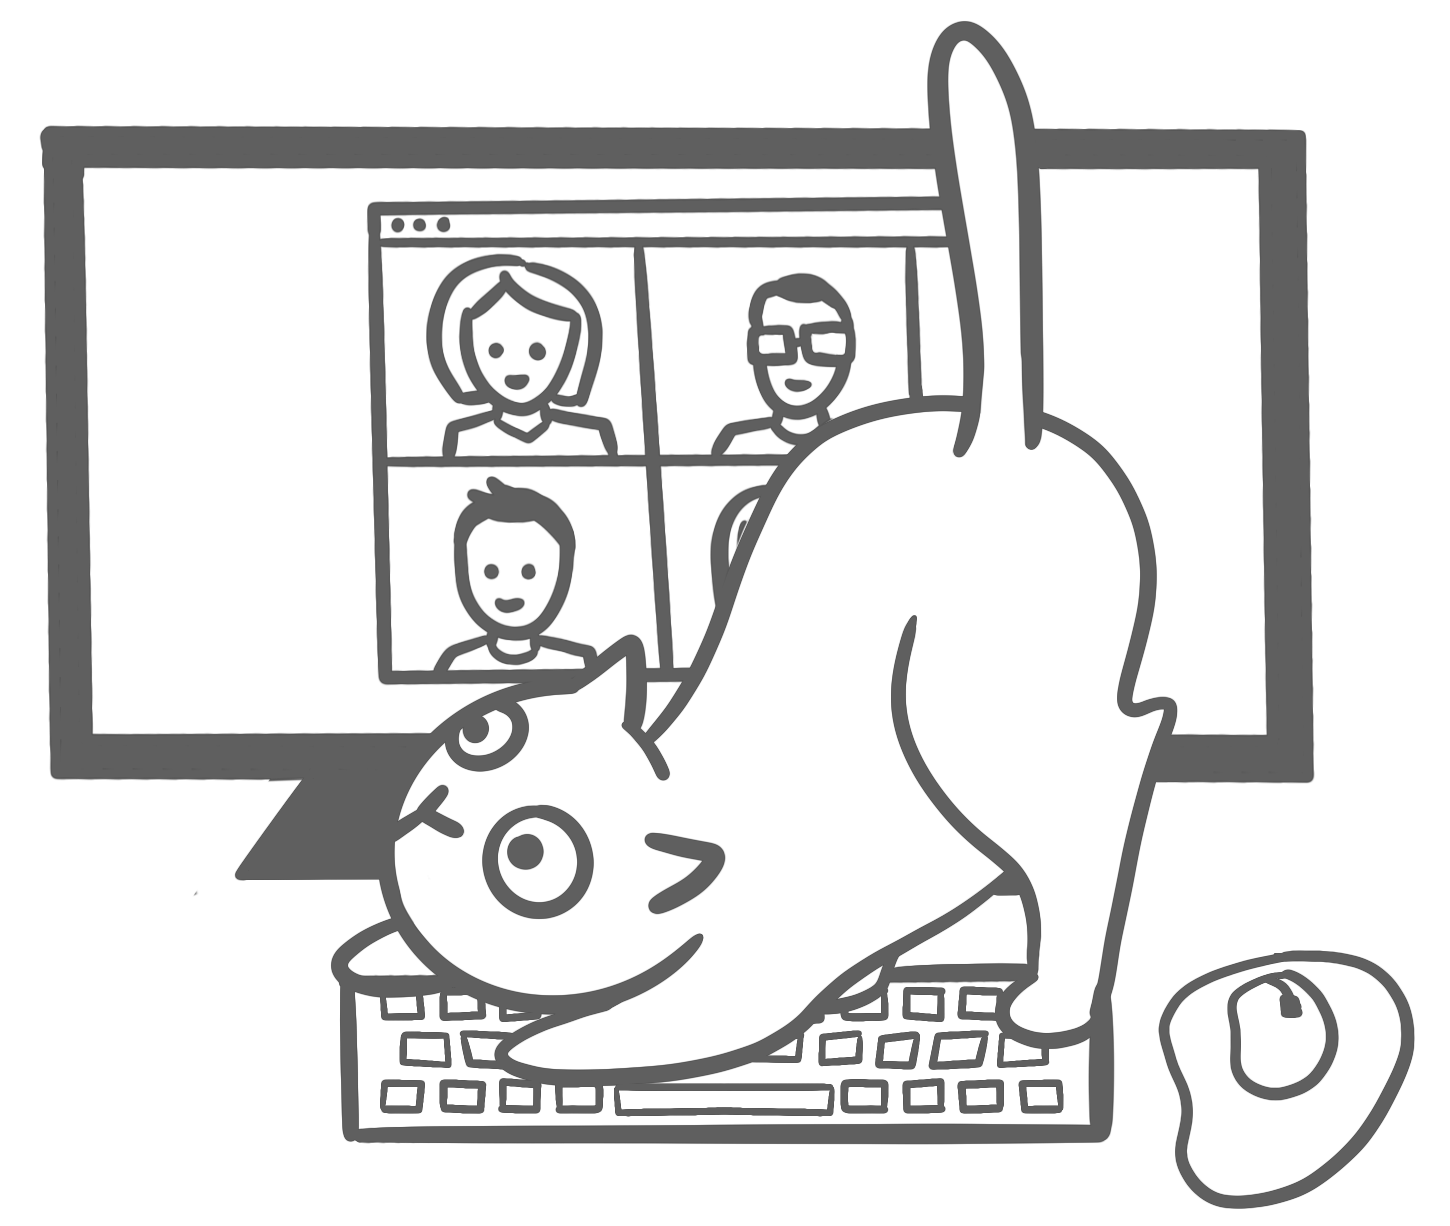
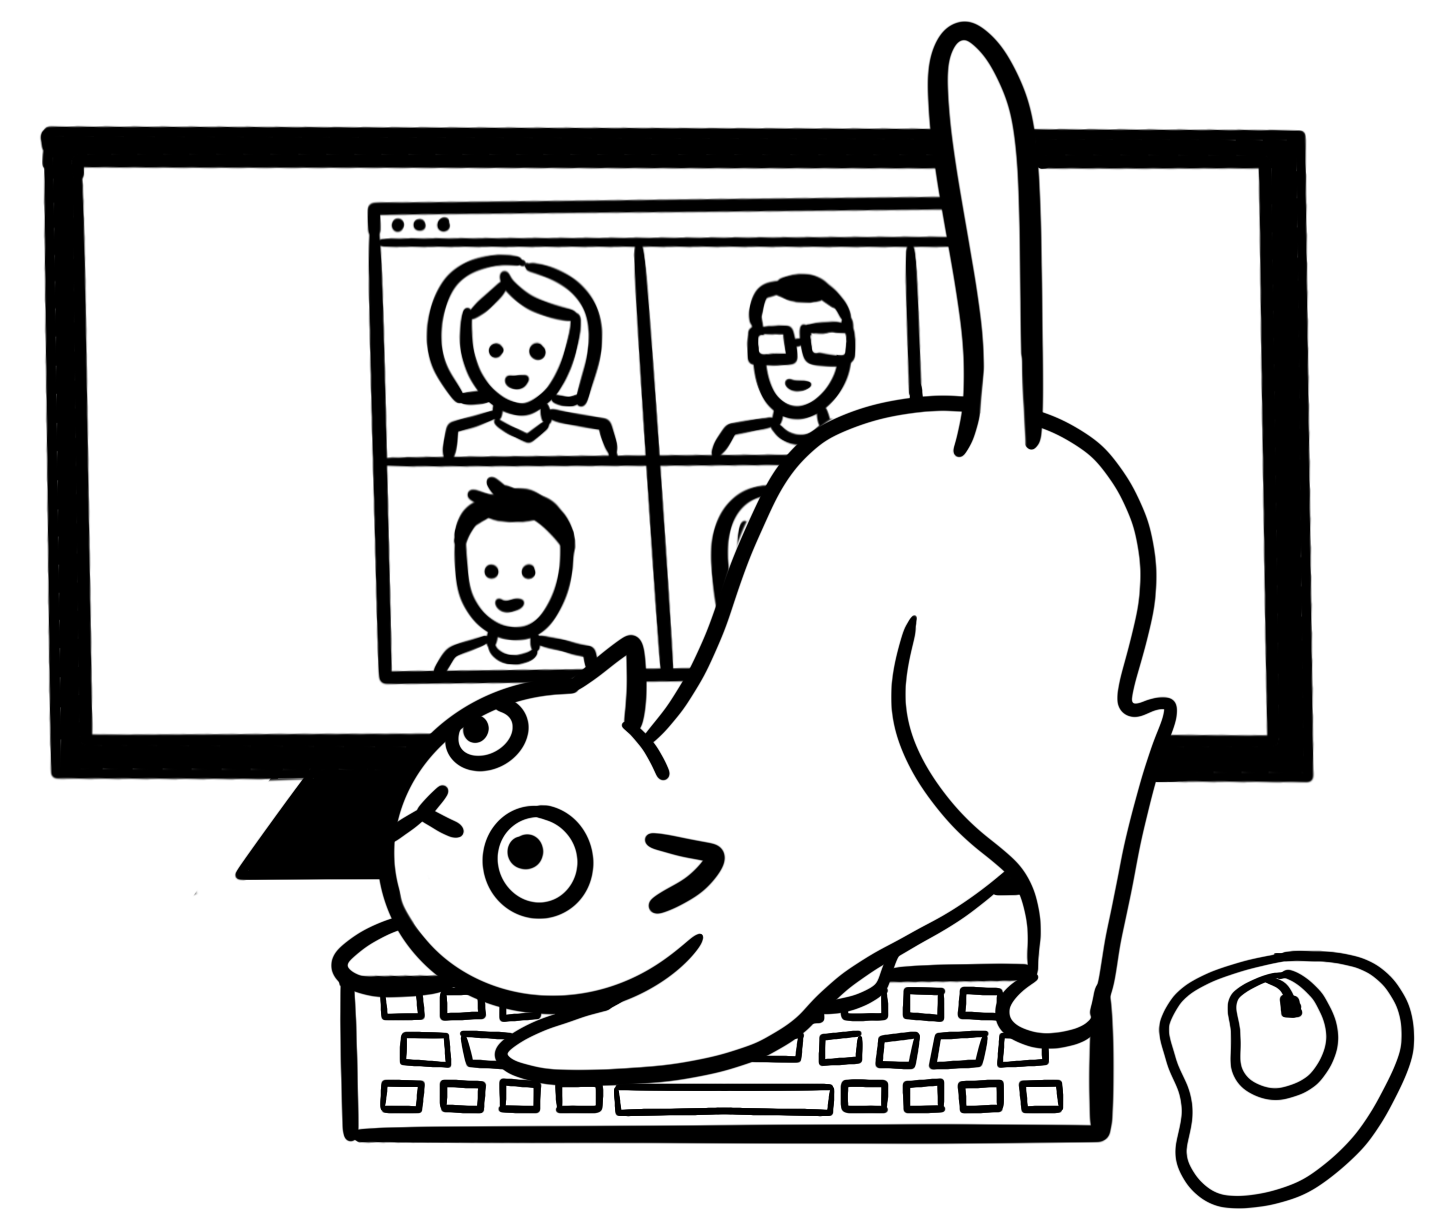
Update hero images in dark mode

Changed region(s): [[0.031, 0.0, 0.931, 0.9299], [0.8069, 0.7749, 0.9931, 0.9918], [0.5897, 0.4959, 0.6517, 0.6509]]

diff --git a/public/assets/css/stylesheet.389e262ee2bf022f2a9bf0f9b1564f78c23c8a4479cfdec2533d7252d6d629ac.css b/public/assets/css/stylesheet.389e262ee2bf022f2a9bf0f9b1564f78c23c8a4479cfdec2533d7252d6d629ac.css
@@ -1,0 +1,7 @@
+/*
+  PaperMod v8+
+  License: MIT https://github.com/adityatelange/hugo-PaperMod/blob/master/LICENSE
+  Copyright (c) 2020 nanxiaobei and adityatelange
+  Copyright (c) 2021-2025 adityatelange
+*/
+:root{--gap:24px;--content-gap:20px;--nav-width:1024px;--main-width:720px;--header-height:60px;--footer-height:60px;--radius:8px;--theme:rgb(255, 255, 255);--entry:rgb(255, 255, 255);--primary:rgb(30, 30, 30);--secondary:rgb(108, 108, 108);--tertiary:rgb(214, 214, 214);--content:rgb(31, 31, 31);--code-block-bg:rgb(28, 29, 33);--code-bg:rgb(245, 245, 245);--border:rgb(238, 238, 238)}.dark{--theme:rgb(29, 30, 32);--entry:rgb(46, 46, 51);--primary:rgb(218, 218, 219);--secondary:rgb(155, 156, 157);--tertiary:rgb(65, 66, 68);--content:rgb(196, 196, 197);--code-block-bg:rgb(46, 46, 51);--code-bg:rgb(55, 56, 62);--border:rgb(51, 51, 51)}.list{background:var(--code-bg)}.dark.list{background:var(--theme)}*,::after,::before{box-sizing:border-box}html{-webkit-tap-highlight-color:transparent;overflow-y:scroll;-webkit-text-size-adjust:100%;text-size-adjust:100%}a,button,body,h1,h2,h3,h4,h5,h6{color:var(--primary)}body{font-family:-apple-system,BlinkMacSystemFont,segoe ui,Roboto,Oxygen,Ubuntu,Cantarell,open sans,helvetica neue,sans-serif;font-size:18px;line-height:1.6;word-break:break-word;background:var(--theme)}article,aside,figcaption,figure,footer,header,hgroup,main,nav,section,table{display:block}h1,h2,h3,h4,h5,h6{line-height:1.2}h1,h2,h3,h4,h5,h6,p{margin-top:0;margin-bottom:0}ul{padding:0}a{text-decoration:none}body,figure,ul{margin:0}table{width:100%;border-collapse:collapse;border-spacing:0;overflow-x:auto;word-break:keep-all}button,input,textarea{padding:0;font:inherit;background:0 0;border:0}input,textarea{outline:0}button,input[type=button],input[type=submit]{cursor:pointer}input:-webkit-autofill,textarea:-webkit-autofill{box-shadow:0 0 0 50px var(--theme)inset}img{display:block;max-width:100%}.not-found{position:absolute;left:0;right:0;display:flex;align-items:center;justify-content:center;height:80%;font-size:160px;font-weight:700}.archive-posts{width:100%;font-size:16px}.archive-year{margin-top:40px}.archive-year:not(:last-of-type){border-bottom:2px solid var(--border)}.archive-month{display:flex;align-items:flex-start;padding:10px 0}.archive-month-header{margin:25px 0;width:200px}.archive-month:not(:last-of-type){border-bottom:1px solid var(--border)}.archive-entry{position:relative;padding:5px;margin:10px 0}.archive-entry-title{margin:5px 0;font-weight:400}.archive-count,.archive-meta{color:var(--secondary);font-size:14px}.footer,.top-link{font-size:12px;color:var(--secondary)}.footer{max-width:calc(var(--main-width) + var(--gap) * 2);margin:auto;padding:calc((var(--footer-height) - var(--gap))/2)var(--gap);text-align:center;line-height:24px}.footer span{margin-inline-start:1px;margin-inline-end:1px}.footer span:last-child{white-space:nowrap}.footer a{color:inherit;border-bottom:1px solid var(--secondary)}.footer a:hover{border-bottom:1px solid var(--primary)}.top-link{visibility:hidden;position:fixed;bottom:60px;right:30px;z-index:99;background:var(--tertiary);width:42px;height:42px;padding:12px;border-radius:64px;transition:visibility .5s,opacity .8s linear}.top-link,.top-link svg{filter:drop-shadow(0 0 0 var(--theme))}.footer a:hover,.top-link:hover{color:var(--primary)}.top-link:focus,#theme-toggle:focus{outline:0}.nav{display:flex;flex-wrap:wrap;justify-content:space-between;max-width:calc(var(--nav-width) + var(--gap) * 2);margin-inline-start:auto;margin-inline-end:auto;line-height:var(--header-height)}.nav a{display:block}.logo,#menu{display:flex;margin:auto var(--gap)}.logo{flex-wrap:inherit}.logo a{font-size:24px;font-weight:700}.logo a img,.logo a svg{display:inline;vertical-align:middle;pointer-events:none;transform:translate(0,-10%);border-radius:6px;margin-inline-end:8px}button#theme-toggle{font-size:26px;margin:auto 4px}body.dark #moon{vertical-align:middle;display:none}body:not(.dark) #sun{display:none}#menu{list-style:none;word-break:keep-all;overflow-x:auto;white-space:nowrap}#menu li+li{margin-inline-start:var(--gap)}#menu a{font-size:16px}#menu .active{font-weight:500;border-bottom:2px solid}.lang-switch li,.lang-switch ul,.logo-switches{display:inline-flex;margin:auto 4px}.lang-switch{display:flex;flex-wrap:inherit}.lang-switch a{margin:auto 3px;font-size:16px;font-weight:500}.logo-switches{flex-wrap:inherit}.main{position:relative;min-height:calc(100vh - var(--header-height) - var(--footer-height));max-width:calc(var(--main-width) + var(--gap) * 2);margin:auto;padding:var(--gap)}.page-header h1{font-size:40px}.pagination{display:flex}.pagination a{color:var(--theme);font-size:13px;line-height:36px;background:var(--primary);border-radius:calc(36px/2);padding:0 16px}.pagination .next{margin-inline-start:auto}.social-icons a{display:inline-flex;padding:10px}.social-icons a svg{height:26px;width:26px}code{direction:ltr}div.highlight,pre{position:relative}.copy-code{display:none;position:absolute;top:4px;right:4px;color:rgba(255,255,255,.8);background:rgba(78,78,78,.8);border-radius:var(--radius);padding:0 5px;font-size:14px;user-select:none}div.highlight:hover .copy-code,pre:hover .copy-code{display:block}.first-entry{position:relative;display:flex;flex-direction:column;justify-content:center;min-height:320px;margin:var(--gap)0 calc(var(--gap) * 2)}.first-entry .entry-header{overflow:hidden;display:-webkit-box;-webkit-box-orient:vertical;-webkit-line-clamp:3}.first-entry .entry-header h1{font-size:34px;line-height:1.3}.first-entry .entry-content{margin:14px 0;font-size:16px;-webkit-line-clamp:3}.first-entry .entry-footer{font-size:14px}.home-info .entry-content{-webkit-line-clamp:unset}.post-entry{position:relative;margin-bottom:var(--gap);padding:var(--gap);background:var(--entry);border-radius:var(--radius);transition:transform .1s;border:1px solid var(--border)}.post-entry:active{transform:scale(.96)}.tag-entry .entry-cover{display:none}.entry-header h2{font-size:24px;line-height:1.3}.entry-content{margin:8px 0;color:var(--secondary);font-size:14px;line-height:1.6;overflow:hidden;display:-webkit-box;-webkit-box-orient:vertical;-webkit-line-clamp:2}.entry-footer{color:var(--secondary);font-size:13px}.entry-link{position:absolute;left:0;right:0;top:0;bottom:0}.entry-hint{color:var(--secondary)}.entry-hint-parent{display:flex;justify-content:space-between}.entry-cover{font-size:14px;margin-bottom:var(--gap);text-align:center}.entry-cover img{border-radius:var(--radius);width:100%;height:auto}.entry-cover a{color:var(--secondary);box-shadow:0 1px 0 var(--primary)}.page-header,.post-header{margin:24px auto var(--content-gap)}.post-title{margin-bottom:2px;font-size:40px}.post-description{margin-top:10px;margin-bottom:5px}.post-meta,.breadcrumbs{color:var(--secondary);font-size:14px;display:flex;flex-wrap:wrap;align-items:center}.post-meta .i18n_list li{display:inline-flex;list-style:none;margin:auto 3px;box-shadow:0 1px 0 var(--secondary)}.breadcrumbs a{font-size:16px}.post-content{color:var(--content)}.post-content h3,.post-content h4,.post-content h5,.post-content h6{margin:24px 0 16px}.post-content h1{margin:40px auto 32px;font-size:40px}.post-content h2{margin:32px auto 24px;font-size:32px}.post-content h3{font-size:24px}.post-content h4{font-size:16px}.post-content h5{font-size:14px}.post-content h6{font-size:12px}.post-content a,.toc a:hover{box-shadow:0 1px;box-decoration-break:clone;-webkit-box-decoration-break:clone}.post-content a code{margin:auto 0;border-radius:0;box-shadow:0 -1px 0 var(--primary)inset}.post-content del{text-decoration:line-through}.post-content dl,.post-content ol,.post-content p,.post-content figure,.post-content ul{margin-bottom:var(--content-gap)}.post-content ol,.post-content ul{padding-inline-start:20px}.post-content li{margin-top:5px}.post-content li p{margin-bottom:0}.post-content dl{display:flex;flex-wrap:wrap;margin:0}.post-content dt{width:25%;font-weight:700}.post-content dd{width:75%;margin-inline-start:0;padding-inline-start:10px}.post-content dd~dd,.post-content dt~dt{margin-top:10px}.post-content table{margin-bottom:var(--content-gap)}.post-content table th,.post-content table:not(.highlighttable,.highlight table,.gist .highlight) td{min-width:80px;padding:8px 5px;line-height:1.5;border-bottom:1px solid var(--border)}.post-content table th{text-align:start}.post-content table:not(.highlighttable) td code:only-child{margin:auto 0}.post-content .highlight table{border-radius:var(--radius)}.post-content .highlight:not(table){margin:10px auto;background:var(--code-block-bg) !important;border-radius:var(--radius);direction:ltr}.post-content li>.highlight{margin-inline-end:0}.post-content ul pre{margin-inline-start:calc(var(--gap) * -2)}.post-content .highlight pre{margin:0}.post-content .highlighttable{table-layout:fixed}.post-content .highlighttable td:first-child{width:40px}.post-content .highlighttable td .linenodiv{padding-inline-end:0 !important}.post-content .highlighttable td .highlight,.post-content .highlighttable td .linenodiv pre{margin-bottom:0}.post-content code{margin:auto 4px;padding:4px 6px;font-size:.78em;line-height:1.5;background:var(--code-bg);border-radius:2px}.post-content pre code{display:grid;margin:auto 0;padding:10px;color:#d5d5d6;background:var(--code-block-bg) !important;border-radius:var(--radius);overflow-x:auto;word-break:break-all}.post-content blockquote{margin:20px 0;padding:0 14px;border-inline-start:3px solid var(--primary)}.post-content hr{margin:30px 0;height:2px;background:var(--tertiary);border:0}.post-content iframe{max-width:100%}.post-content img{border-radius:4px;margin:1rem 0}.post-content img[src*="#center"]{margin:1rem auto}.post-content figure.align-center{text-align:center}.post-content figure>figcaption{color:var(--primary);font-size:16px;font-weight:700;margin:8px 0 16px}.post-content figure>figcaption>p{color:var(--secondary);font-size:14px;font-weight:400}.toc{margin:0 2px 40px;border:1px solid var(--border);background:var(--code-bg);border-radius:var(--radius);padding:.4em}.dark .toc{background:var(--entry)}.toc details summary{cursor:zoom-in;margin-inline-start:10px;user-select:none}.toc details[open] summary{cursor:zoom-out}.toc .details{display:inline;font-weight:500}.toc .inner{margin:5px 20px 0;padding:0 10px;opacity:.9}.toc li ul{margin-inline-start:var(--gap)}.toc summary:focus{outline:0}.post-footer{margin-top:56px}.post-footer>*{margin-bottom:10px}.post-tags{display:flex;flex-wrap:wrap;gap:10px}.post-tags li{display:inline-block}.post-tags a,.share-buttons,.paginav{border-radius:var(--radius);background:var(--code-bg);border:1px solid var(--border)}.post-tags a{display:block;padding:0 14px;color:var(--secondary);font-size:14px;line-height:34px;background:var(--code-bg)}.post-tags a:hover,.paginav a:hover{background:var(--border)}.share-buttons{padding:10px;display:flex;justify-content:center;overflow-x:auto;gap:10px}.share-buttons li,.share-buttons a{display:inline-flex}.share-buttons a:not(:last-of-type){margin-inline-end:12px}h1:hover .anchor,h2:hover .anchor,h3:hover .anchor,h4:hover .anchor,h5:hover .anchor,h6:hover .anchor{display:inline-flex;color:var(--secondary);margin-inline-start:8px;font-weight:500;user-select:none}.paginav{display:flex;line-height:30px}.paginav a{padding-inline-start:14px;padding-inline-end:14px;border-radius:var(--radius)}.paginav .title{letter-spacing:1px;text-transform:uppercase;font-size:small;color:var(--secondary)}.paginav .prev,.paginav .next{width:50%}.paginav span:hover:not(.title){box-shadow:0 1px}.paginav .next{margin-inline-start:auto;text-align:right}[dir=rtl] .paginav .next{text-align:left}h1>a>svg{display:inline}img.in-text{display:inline;margin:auto}.buttons,.main .profile{display:flex;justify-content:center}.main .profile{align-items:center;min-height:calc(100vh - var(--header-height) - var(--footer-height) - (var(--gap) * 2));text-align:center}.profile .profile_inner{display:flex;flex-direction:column;align-items:center;gap:10px}.profile img{border-radius:50%}.buttons{flex-wrap:wrap;max-width:400px}.button{background:var(--tertiary);border-radius:var(--radius);margin:8px;padding:6px;transition:transform .1s}.button-inner{padding:0 8px}.button:active{transform:scale(.96)}#searchbox input{padding:4px 10px;width:100%;color:var(--primary);font-weight:700;border:2px solid var(--tertiary);border-radius:var(--radius)}#searchbox input:focus{border-color:var(--secondary)}#searchResults li{list-style:none;border-radius:var(--radius);padding:10px;margin:10px 0;position:relative;font-weight:500}#searchResults{margin:10px 0;width:100%}#searchResults li:active{transition:transform .1s;transform:scale(.98)}#searchResults a{position:absolute;width:100%;height:100%;top:0;left:0;outline:none}#searchResults .focus{transform:scale(.98);border:2px solid var(--tertiary)}.terms-tags li{display:inline-block;margin:10px;font-weight:500}.terms-tags a{display:block;padding:3px 10px;background:var(--tertiary);border-radius:6px;transition:transform .1s}.terms-tags a:active{background:var(--tertiary);transform:scale(.96)}.bg{color:#cad3f5;background-color:#24273a}.chroma{color:#cad3f5;background-color:#24273a}.chroma .x{}.chroma .err{color:#ed8796}.chroma .cl{}.chroma .lnlinks{outline:none;text-decoration:none;color:inherit}.chroma .lntd{vertical-align:top;padding:0;margin:0;border:0}.chroma .lntable{border-spacing:0;padding:0;margin:0;border:0}.chroma .hl{background-color:#474733}.chroma .lnt{white-space:pre;-webkit-user-select:none;user-select:none;margin-right:.4em;padding:0 .4em;color:#8087a2}.chroma .ln{white-space:pre;-webkit-user-select:none;user-select:none;margin-right:.4em;padding:0 .4em;color:#8087a2}.chroma .line{display:flex}.chroma .k{color:#c6a0f6}.chroma .kc{color:#f5a97f}.chroma .kd{color:#ed8796}.chroma .kn{color:#8bd5ca}.chroma .kp{color:#c6a0f6}.chroma .kr{color:#c6a0f6}.chroma .kt{color:#ed8796}.chroma .n{}.chroma .na{color:#8aadf4}.chroma .nb{color:#91d7e3}.chroma .bp{color:#91d7e3}.chroma .nc{color:#eed49f}.chroma .no{color:#eed49f}.chroma .nd{color:#8aadf4;font-weight:700}.chroma .ni{color:#8bd5ca}.chroma .ne{color:#f5a97f}.chroma .nf{color:#8aadf4}.chroma .fm{color:#8aadf4}.chroma .nl{color:#91d7e3}.chroma .nn{color:#f5a97f}.chroma .nx{}.chroma .py{color:#f5a97f}.chroma .nt{color:#c6a0f6}.chroma .nv{color:#f4dbd6}.chroma .vc{color:#f4dbd6}.chroma .vg{color:#f4dbd6}.chroma .vi{color:#f4dbd6}.chroma .vm{color:#f4dbd6}.chroma .l{}.chroma .ld{}.chroma .s{color:#a6da95}.chroma .sa{color:#ed8796}.chroma .sb{color:#a6da95}.chroma .sc{color:#a6da95}.chroma .dl{color:#8aadf4}.chroma .sd{color:#6e738d}.chroma .s2{color:#a6da95}.chroma .se{color:#8aadf4}.chroma .sh{color:#6e738d}.chroma .si{color:#a6da95}.chroma .sx{color:#a6da95}.chroma .sr{color:#8bd5ca}.chroma .s1{color:#a6da95}.chroma .ss{color:#a6da95}.chroma .m{color:#f5a97f}.chroma .mb{color:#f5a97f}.chroma .mf{color:#f5a97f}.chroma .mh{color:#f5a97f}.chroma .mi{color:#f5a97f}.chroma .il{color:#f5a97f}.chroma .mo{color:#f5a97f}.chroma .o{color:#91d7e3;font-weight:700}.chroma .ow{color:#91d7e3;font-weight:700}.chroma .p{}.chroma .c{color:#6e738d;font-style:italic}.chroma .ch{color:#6e738d;font-style:italic}.chroma .cm{color:#6e738d;font-style:italic}.chroma .c1{color:#6e738d;font-style:italic}.chroma .cs{color:#6e738d;font-style:italic}.chroma .cp{color:#6e738d;font-style:italic}.chroma .cpf{color:#6e738d;font-weight:700;font-style:italic}.chroma .g{}.chroma .gd{color:#ed8796;background-color:#363a4f}.chroma .ge{font-style:italic}.chroma .gr{color:#ed8796}.chroma .gh{color:#f5a97f;font-weight:700}.chroma .gi{color:#a6da95;background-color:#363a4f}.chroma .go{}.chroma .gp{}.chroma .gs{font-weight:700}.chroma .gu{color:#f5a97f;font-weight:700}.chroma .gt{color:#ed8796}.chroma .gl{text-decoration:underline}.chroma .w{}.chroma{background-color:unset !important}.chroma .hl{display:flex}.chroma .lnt{padding:0 0 0 12px}.highlight pre.chroma code{padding:8px 0}.highlight pre.chroma .line .cl,.chroma .ln{padding:0 10px}.chroma .lntd:last-of-type{width:100%}::-webkit-scrollbar-track{background:0 0}.list:not(.dark)::-webkit-scrollbar-track{background:var(--code-bg)}::-webkit-scrollbar-thumb{background:var(--tertiary);border:5px solid var(--theme);border-radius:var(--radius)}.list:not(.dark)::-webkit-scrollbar-thumb{border:5px solid var(--code-bg)}::-webkit-scrollbar-thumb:hover{background:var(--secondary)}::-webkit-scrollbar:not(.highlighttable,.highlight table,.gist .highlight){background:var(--theme)}.post-content .highlighttable td .highlight pre code::-webkit-scrollbar{display:none}.post-content :not(table) ::-webkit-scrollbar-thumb{border:2px solid var(--code-block-bg);background:#717175}.post-content :not(table) ::-webkit-scrollbar-thumb:hover{background:#a3a3a5}.gist table::-webkit-scrollbar-thumb{border:2px solid #fff;background:#adadad}.gist table::-webkit-scrollbar-thumb:hover{background:#707070}.post-content table::-webkit-scrollbar-thumb{border-width:2px}@media screen and (min-width:768px){::-webkit-scrollbar{width:19px;height:11px}}@media screen and (max-width:768px){:root{--gap:14px}.profile img{transform:scale(.85)}.first-entry{min-height:260px}.archive-month{flex-direction:column}.archive-year{margin-top:20px}.footer{padding:calc((var(--footer-height) - var(--gap) - 10px)/2)var(--gap)}}@media screen and (max-width:900px){.list .top-link{transform:translateY(-5rem)}}@media screen and (max-width:340px){.share-buttons{justify-content:unset}}@media(prefers-reduced-motion){.terms-tags a:active,.button:active,.post-entry:active,.top-link,#searchResults .focus,#searchResults li:active{transform:none}}body.list{min-height:100vh;position:relative;background-size:35%;background-position:90% 7%;background-repeat:no-repeat}[data-theme=light] body.list{background-image:url(/light-hero.png)}[data-theme=dark] body.list{background-image:url(/dark-hero.png);background-size:35%;background-position:90% 7%;background-repeat:no-repeat}body.list:not([data-theme=dark]){background-image:url(/dark-hero.png)}@media(prefers-color-scheme:dark){body.list:not([data-theme=light]){background-image:url(/light-hero.png);background-size:35%;background-position:90% 7%;background-repeat:no-repeat}}body.list .main{position:relative;min-height:calc(100vh - var(--header-height) - var(--footer-height));max-width:calc(var(--main-width) + var(--gap) * 2);margin:auto;padding:var(--gap)}body.list .home-info{display:grid;grid-template-columns:1fr 45%}body.list .home-info .entry-header,body.list .home-info .entry-content,body.list .home-info .entry-footer{grid-column:1}.social-icon-link{display:inline-flex !important;align-items:center;gap:8px;margin-right:16px;text-decoration:none;color:var(--primary)}.social-icon-text{font-size:14px;font-weight:500}.social-icons{display:flex;flex-wrap:wrap;align-items:center;margin-top:8px}.social-icon-link svg{width:24px;height:24px;flex-shrink:0}@media(max-width:768px){body.list{background-size:47%;background-position:50% 3%}body.list .main{padding:1rem}body.list .home-info{display:block;margin:8rem 0 1rem;padding:1.5rem}.social-icon-link{margin-right:12px;margin-bottom:8px}.social-icon-text{font-size:13px}}@media(max-width:480px){body.list{background-size:100%}body.list .home-info{padding:1rem;margin:.5rem 0}}

diff --git a/public/404.html b/public/404.html
@@ -10,7 +10,7 @@
 <meta name="description" content="Barbara Denney">
 <meta name="author" content="">
 <link rel="canonical" href="http://localhost:1313/404.html">
-<link crossorigin="anonymous" href="/assets/css/stylesheet.bf7123f0bc6e8430ebf5b6be60671ff97880d4fa42d735a626876863f7bbc084.css" integrity="sha256-v3Ej8LxuhDDr9ba&#43;YGcf&#43;XiA1PpC1zWmJodoY/e7wIQ=" rel="preload stylesheet" as="style">
+<link crossorigin="anonymous" href="/assets/css/stylesheet.389e262ee2bf022f2a9bf0f9b1564f78c23c8a4479cfdec2533d7252d6d629ac.css" integrity="sha256-OJ4mLuK/Ai8qm/D5sVZPeMI8ikR5z97CUz1yUtbWKaw=" rel="preload stylesheet" as="style">
 <link rel="icon" href="http://localhost:1313/favicon.ico">
 <link rel="icon" type="image/png" sizes="16x16" href="http://localhost:1313/favicon-16x16.png">
 <link rel="icon" type="image/png" sizes="32x32" href="http://localhost:1313/favicon-32x32.png">

diff --git a/public/index.html b/public/index.html
@@ -11,7 +11,7 @@
 <meta name="description" content="Barbara Denney">
 <meta name="author" content="">
 <link rel="canonical" href="http://localhost:1313/">
-<link crossorigin="anonymous" href="/assets/css/stylesheet.bf7123f0bc6e8430ebf5b6be60671ff97880d4fa42d735a626876863f7bbc084.css" integrity="sha256-v3Ej8LxuhDDr9ba&#43;YGcf&#43;XiA1PpC1zWmJodoY/e7wIQ=" rel="preload stylesheet" as="style">
+<link crossorigin="anonymous" href="/assets/css/stylesheet.389e262ee2bf022f2a9bf0f9b1564f78c23c8a4479cfdec2533d7252d6d629ac.css" integrity="sha256-OJ4mLuK/Ai8qm/D5sVZPeMI8ikR5z97CUz1yUtbWKaw=" rel="preload stylesheet" as="style">
 <link rel="icon" href="http://localhost:1313/favicon.ico">
 <link rel="icon" type="image/png" sizes="16x16" href="http://localhost:1313/favicon-16x16.png">
 <link rel="icon" type="image/png" sizes="32x32" href="http://localhost:1313/favicon-32x32.png">

diff --git a/assets/css/extended/custom.css b/assets/css/extended/custom.css
@@ -22,12 +22,12 @@ body.list  {
 
 /* Auto theme - defaults to light, switches with system preference */
 body.list:not([data-theme="dark"]) {
-    background-image: url('/light-hero.png');
+    background-image: url('/dark-hero.png');
 }
 
 @media (prefers-color-scheme: dark) {
     body.list:not([data-theme="light"]) {
-        background-image: url('/dark-hero.png');
+        background-image: url('/light-hero.png');
         background-size: 35%;
         background-position: 90% 7%;
         background-repeat: no-repeat;
